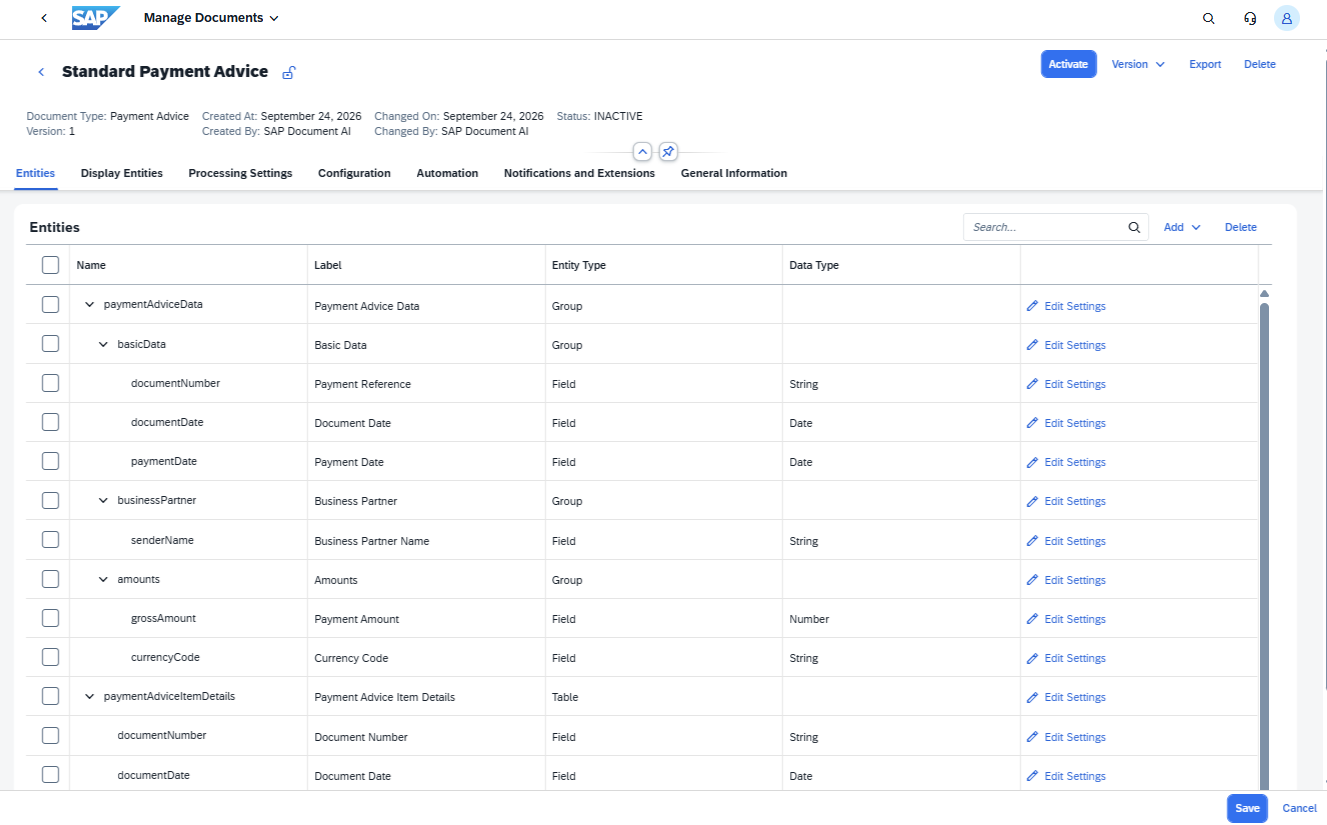
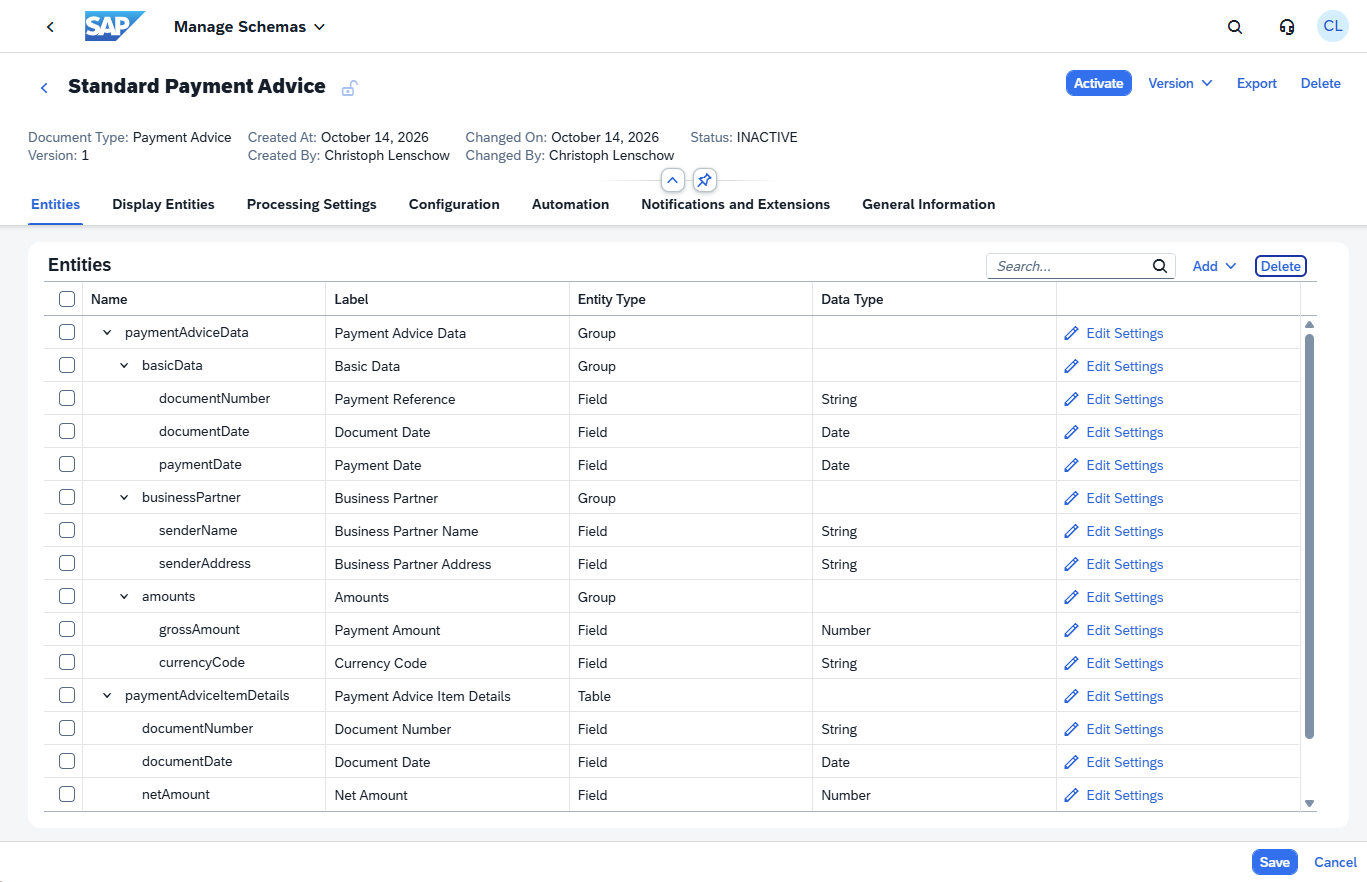
Fix exercises1

diff --git a/exercises/ex1/README.md b/exercises/ex1/README.md
@@ -35,8 +35,7 @@ The schema comes with a detailed `businessPartner` group containing many granula
 
 3. Click **Deactivate** to make the schema editable.
 
-4. On the **Entities** tab, expand the **businessPartner** group. Select the checkboxes for all fields except `senderName`:
-   - `senderAddress`
+4. On the **Entities** tab, expand the **businessPartner** group. Select the checkboxes for all fields except `senderName` and `senderAddress`:
    - `taxId`
    - `senderId`
    - `senderDistrict`
@@ -51,7 +50,7 @@ The schema comes with a detailed `businessPartner` group containing many granula
    Click **Delete**.
 <br>![](images/01_01_0050.png)
 
-5. The group now contains only `senderName`. Click **Save**.
+5. The group now contains only `senderName` and `senderAddress`. Click **Save**.
 <br>![](images/01_01_0060.png)
 
 6. Click **Activate** to bring the schema back to **Active** status.
